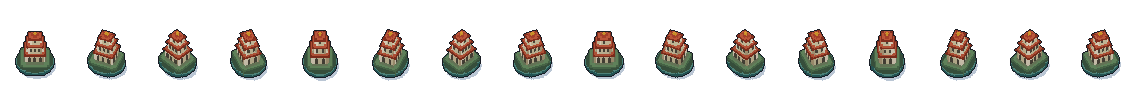
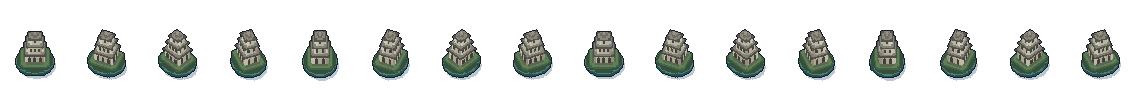
G1: Sửa mái Tháp Rùa sang màu đá xám rêu đúng thực tế (cổng duyệt 1 chọn kiểu A)
Agent: agy

diff --git a/design/lab/g1-compare.html b/design/lab/g1-compare.html
@@ -48,7 +48,7 @@
     const entries = await loadStacks('../../assets/stacks/manifest.json');
     const byId = Object.fromEntries(entries.map(e => [e.id, e]));
     const rows = [
-      { base: 'hn-ho-hoan-kiem', title: 'Hồ Hoàn Kiếm – Tháp Rùa', city: 'Hà Nội · Quận 8', note: 'Khối đối xứng 3 tầng, mái ngói đỏ & hồ xanh.', band: '--d8' },
+      { base: 'hn-ho-hoan-kiem', title: 'Hồ Hoàn Kiếm – Tháp Rùa', city: 'Hà Nội · Quận 8', note: 'Khối đối xứng 3 tầng, mái đá xám rêu & hồ xanh.', band: '--d8' },
       { base: 'dn-cau-rong', title: 'Cầu Rồng', city: 'Đà Nẵng · Quận 6', note: 'Dài mảnh, gầm cầu & 3 vòm rồng rỗng (parts).', band: '--d6' },
       { base: 'hcm-cho-ben-thanh', title: 'Chợ Bến Thành', city: 'TP.HCM · Quận 7', note: 'Nhà lồng mái ngói + tháp đồng hồ (parts).', band: '--d7' },
     ];

diff --git a/docs/agents/agy.md b/docs/agents/agy.md
@@ -4,11 +4,11 @@
 - Đã tạo nội dung chữ cho map Việt Nam (40 ô, 13 loại thẻ Vận mệnh, gợi ý Thanh Hóa) và chạy `node --test tests/*.test.mjs` (17/17 xanh).
 - File: `content/vietnam.json`.
 
-## 2026-11-27 · G1 (dừng ở Cổng duyệt 1)
+## 2026-11-27 · G1 (Cổng duyệt 1 → chốt kiểu A · Pixel, sửa mái Tháp Rùa)
 - Đã tạo đủ 3 địa danh thử × 2 kiểu (**A · Pixel** và **B · Giấy xếp lớp** = 6 asset), chạy `../Monopoly-codex/tools/art/build_stacks.py --bake16` ra dải lát cắt, sheet 16 góc, 6 check sheet và `manifest.json`; mọi ảnh gốc dưới 5 KB, mọi dải lát cắt dưới 7 KB (dưới ngưỡng 60 KB / 400 KB).
-- Đã kiểm tra trực quan cả 6 check sheet, thêm trang so sánh `design/lab/g1-compare.html`, chạy renderer thật của Codex (`src/render/stack.js` + `design/lab/stack.html`) trên Edge headless và chụp bảng so sánh A/B cùng ảnh lab desktop (1280px) & mobile (390px).
+- Theo phản hồi của người dùng ở Cổng duyệt 1 (**chọn kiểu A · Pixel** và góp ý mái Tháp Rùa không phải màu đỏ): đã sửa mái Tháp Rùa sang màu đá xám rêu phong cổ (`#7A776C`/`#5F5D54`, chóp đá `#9E9887`) khớp kiến trúc thật, cắt lớp lại và chụp mới `g1-lab-compare.png`.
 - File: `assets/stacks/src/*`, `assets/stacks/out/*`, `assets/stacks/check/*`, `assets/stacks/manifest.json`, `assets/stacks/SOURCES.md`, `design/lab/g1-compare.html`.
-- Việc tiếp theo: **chờ người dùng chọn ở Cổng duyệt 1** (kiểu A Pixel, kiểu B Giấy xếp lớp, hay chỉnh lại) rồi mới làm G2–G5.
+- Việc tiếp theo: chờ người dùng xác nhận bản Tháp Rùa đã sửa màu mái rồi bắt đầu **G2 (`assets/stacks/STYLE.md`)** và **G3 đợt 1** (6 địa danh Hưng Yên, Thanh Hóa) theo **kiểu A · Pixel**.
 - Đề xuất gửi Codex (không tự sửa vùng của Codex):
   1. Trong `src/render/stack.js:186` (`mountTurntable`), dòng `(canvas.clientHeight + size.height * scale) / 2 - 4` đang đặt `baseY` xuống sát đáy canvas nên khi `scale >= 3.5` đáy mô hình bị cắt ở mép dưới (thấy rõ ở ảnh `g1-lab-mobile.png` và `deedCanvas` trong `stack.html:95`). Đề xuất đổi thành `(canvas.clientHeight - size.height * scale) / 2 + size.baseY * scale` để căn đúng giữa khung.
   2. Trong `tools/art/build_stacks.py:84`, font mặc định của Pillow không hỗ trợ dấu tiếng Việt nên nhãn `"tách lớp"` trên check sheet hiện `t□ch l□p`; có thể dùng `"tach lop"` hoặc nạp font TTF hệ thống.

diff --git a/assets/stacks/SOURCES.md b/assets/stacks/SOURCES.md
@@ -10,8 +10,8 @@ Mọi ảnh trong thư mục này đều do dự án tự dựng, không lấy t
 
 | Asset ID | Địa danh | Kiểu | Bảng màu & cấu trúc |
 |---|---|---|---|
-| `hn-ho-hoan-kiem-pixel` | Hồ Hoàn Kiếm – Tháp Rùa (Hà Nội) | A · Pixel (32 lát, `spacing=1.0`) | Hồ xanh ngọc `#2E6B6B`/`#3E857D`, cỏ `#567D58`, tường vôi cổ `#D6C6A5`, ngói đỏ `#B0472F`, chóp `#D49A2A`. Khối 3 tầng đối xứng. |
-| `hn-ho-hoan-kiem-paper` | Hồ Hoàn Kiếm – Tháp Rùa (Hà Nội) | B · Giấy xếp lớp (14 lát, `spacing=2.1`) | Cùng bảng màu Hà Nội, thêm vân loang màu nước và sáng mép giấy cắt, 14 lớp dày. |
+| `hn-ho-hoan-kiem-pixel` | Hồ Hoàn Kiếm – Tháp Rùa (Hà Nội) | A · Pixel (32 lát, `spacing=1.0`) | Hồ xanh ngọc `#2E6B6B`/`#3E857D`, cỏ `#567D58`, tường vôi đá cổ `#D1C8B1`, mái đá xám rêu `#7A776C`/`#5F5D54`, chóp đá `#9E9887`. Khối 3 tầng đối xứng. |
+| `hn-ho-hoan-kiem-paper` | Hồ Hoàn Kiếm – Tháp Rùa (Hà Nội) | B · Giấy xếp lớp (14 lát, `spacing=2.1`) | Cùng bảng màu đá cổ xám rêu & hồ xanh, thêm vân loang màu nước và sáng mép giấy cắt, 14 lớp dày. |
 | `dn-cau-rong-pixel` | Cầu Rồng (Đà Nẵng) | A · Pixel (25 lát, `spacing=1.0`, dùng `parts`) | Xanh biển `#4A85A6`, mặt đường `#6B727B`, dầm/trụ `#BEB6A7`, rồng vàng `#DBA02C`/`#F8D05E`, mắt đỏ `#C74B30`. Ghép 2 phần `-bridge` + `-dragon` giữ rỗng gầm cầu và 3 vòm rồng. |
 | `dn-cau-rong-paper` | Cầu Rồng (Đà Nẵng) | B · Giấy xếp lớp (14 lát, `spacing=1.85`, dùng `parts`) | Cùng bảng màu Đà Nẵng + vân màu nước, ghép `-bridge` (7 lát) + `-dragon` (8 lát). |
 | `hcm-cho-ben-thanh-pixel` | Chợ Bến Thành (TP.HCM) | A · Pixel (27 lát, `spacing=1.0`, dùng `parts`) | Tường kem `#E0D2B5`, ngói gạch đỏ `#B4472F`, mái hiên xanh ngọc `#2E6B6B`, mặt đồng hồ `#FAF7F0`. Ghép `-hall` + `-tower` để tháp đồng hồ không lem màu lên mái nhà lồng. |
